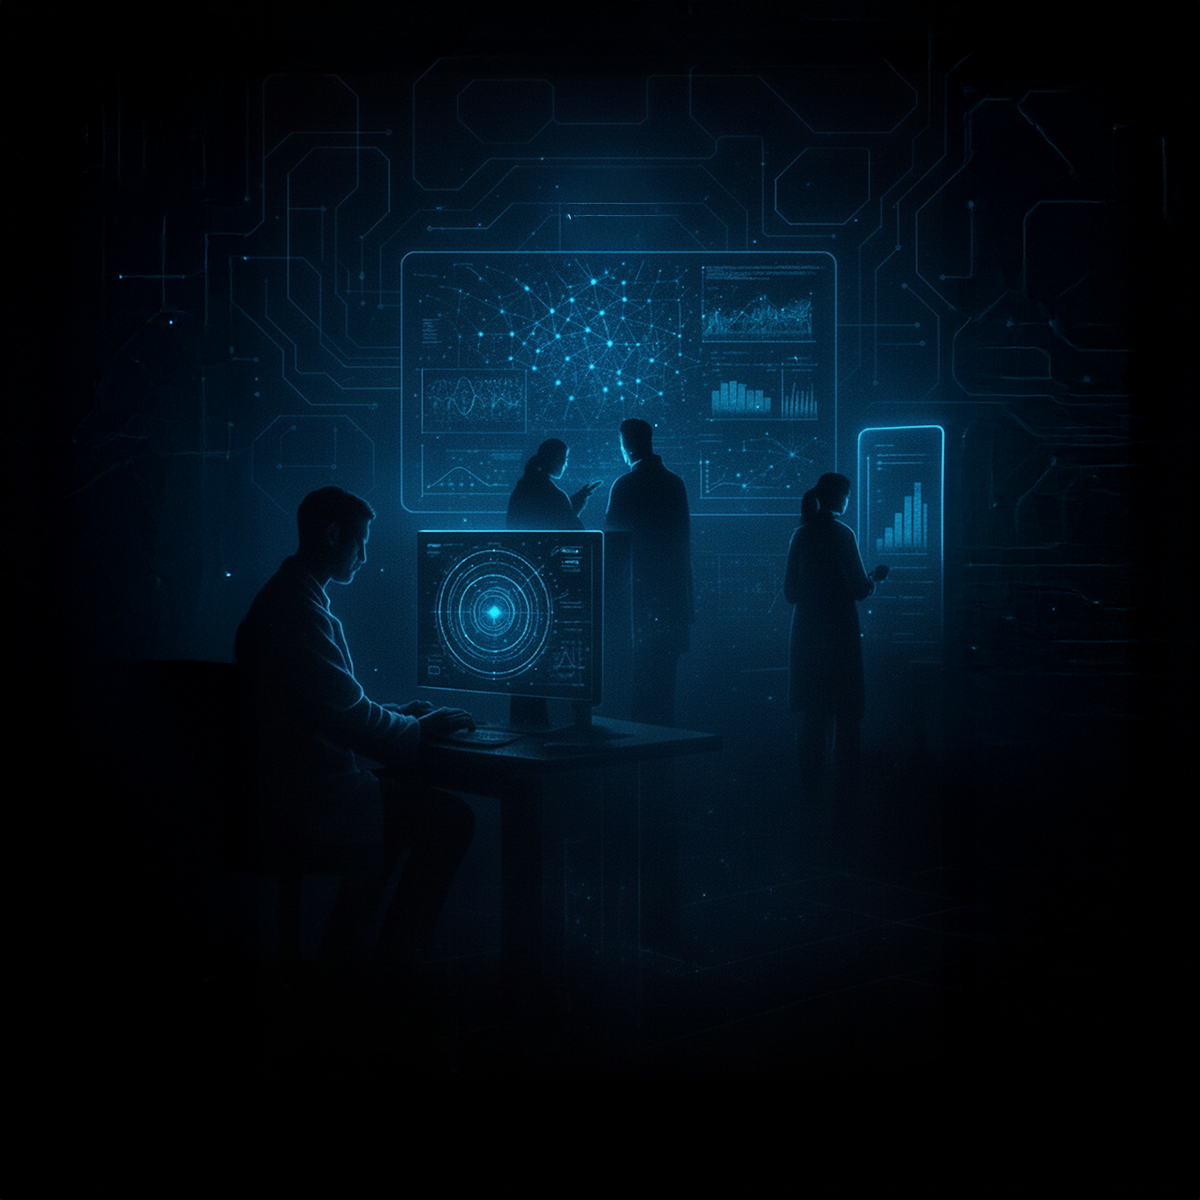
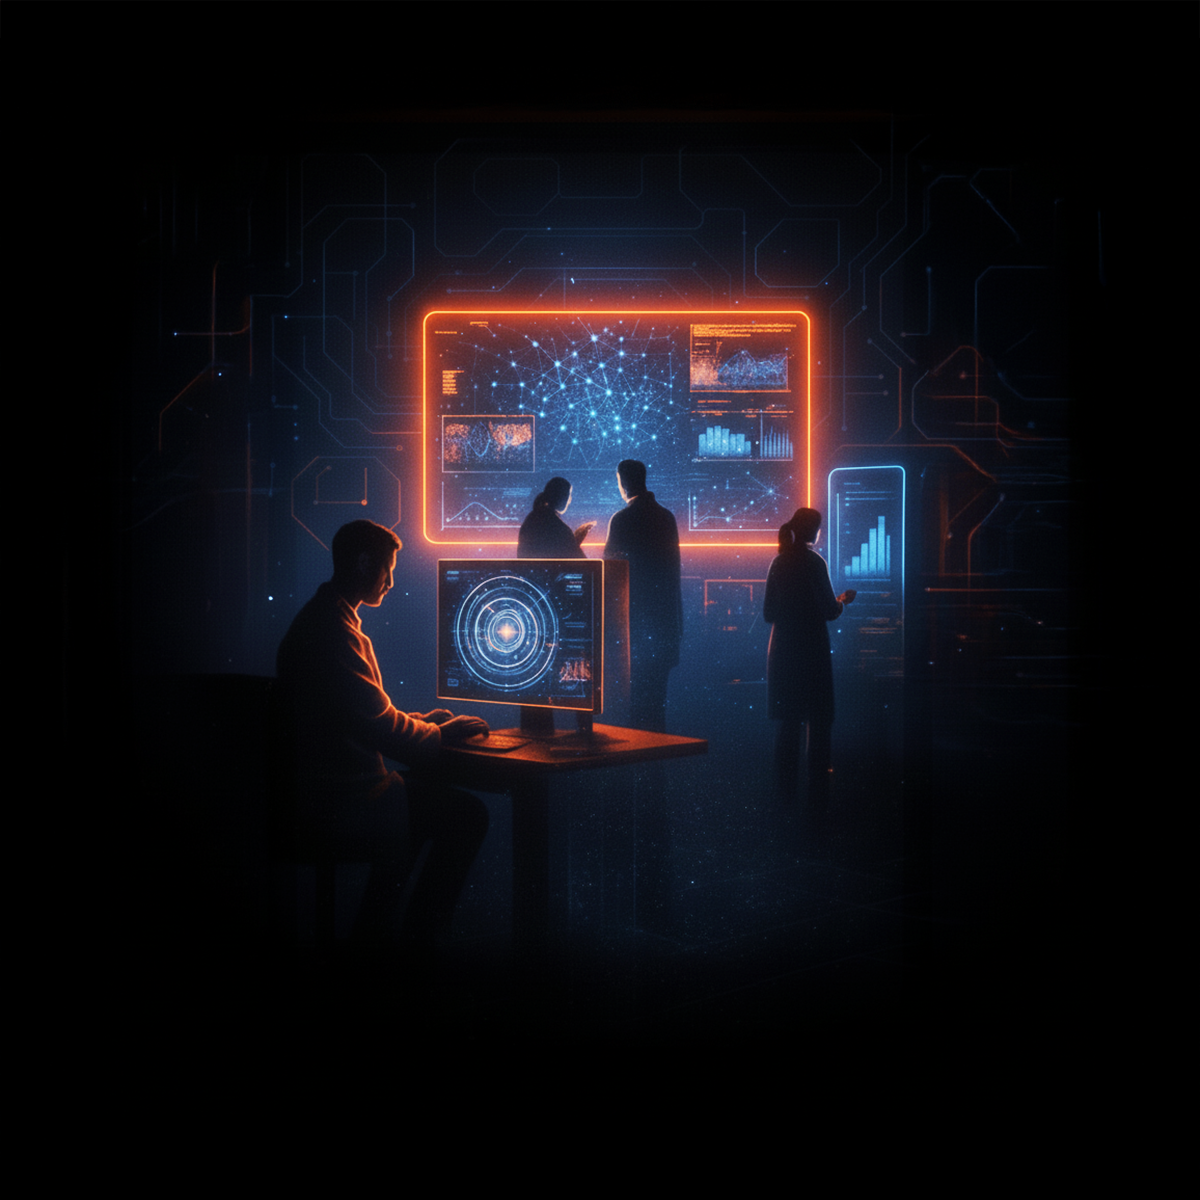
Update Observatory section to vertical stacked layout with new image
- Change Observatory layout from horizontal to vertical/stacked
- Image now appears on top with content centered below
- Update observatory-eval.png with new version
- Center all content including title, subtitle, description, and buttons
- Maintain responsive design for mobile devices
- Apply changes to both homepage and evaluations page

🤖 Generated with [Claude Code](https://claude.com/claude-code)

diff --git a/evaluations.html b/evaluations.html
@@ -98,15 +98,13 @@
     .footer-links a svg{width:16px;height:16px;fill:currentColor}
 
     /* Observatory section */
-    .observatory-card{display:flex;flex-direction:row;gap:60px;align-items:center}
-    .observatory-img{width:400px;height:400px;flex-shrink:0;border-radius:12px;background:#111318;object-fit:cover;display:block}
-    .observatory-body{padding:0;text-align:left;flex:1}
-    .observatory-pills{display:flex;gap:.5rem;justify-content:flex-start;flex-wrap:wrap;margin-top:1rem}
+    .observatory-card{display:flex;flex-direction:column;align-items:center;text-align:center;max-width:800px;margin:0 auto}
+    .observatory-img{width:100%;max-width:600px;aspect-ratio:1/1;border-radius:12px;background:#111318;object-fit:cover;display:block;margin-bottom:32px}
+    .observatory-body{padding:0;text-align:center;width:100%}
+    .observatory-pills{display:flex;gap:.5rem;justify-content:center;flex-wrap:wrap;margin-top:1rem}
     @media (max-width:800px){
-      .observatory-card{flex-direction:column;align-items:stretch}
-      .observatory-img{width:100%;max-width:100%;aspect-ratio:1/1}
-      .observatory-body{text-align:center}
-      .observatory-pills{justify-content:center;flex-direction:column;align-items:center}
+      .observatory-img{max-width:100%}
+      .observatory-pills{flex-direction:column;align-items:center}
       .observatory-pills .btn{width:100%;max-width:240px;justify-content:center;text-align:center}
     }
   </style>

diff --git a/index.html b/index.html
@@ -128,15 +128,13 @@
     }
 
     /* Observatory Section */
-    .observatory-card{display:flex;flex-direction:row;gap:60px;align-items:center}
-    .observatory-img{width:400px;height:400px;flex-shrink:0;border-radius:12px;background:#111318;object-fit:cover;display:block}
-    .observatory-body{padding:0;text-align:left;flex:1}
-    .observatory-pills{display:flex;gap:.5rem;justify-content:flex-start;flex-wrap:wrap;margin-top:1rem}
+    .observatory-card{display:flex;flex-direction:column;align-items:center;text-align:center;max-width:800px;margin:0 auto}
+    .observatory-img{width:100%;max-width:600px;aspect-ratio:1/1;border-radius:12px;background:#111318;object-fit:cover;display:block;margin-bottom:32px}
+    .observatory-body{padding:0;text-align:center;width:100%}
+    .observatory-pills{display:flex;gap:.5rem;justify-content:center;flex-wrap:wrap;margin-top:1rem}
     @media (max-width:800px){
-      .observatory-card{flex-direction:column;align-items:stretch}
-      .observatory-img{width:100%;max-width:100%;aspect-ratio:1/1}
-      .observatory-body{text-align:center}
-      .observatory-pills{justify-content:center;flex-direction:column;align-items:center}
+      .observatory-img{max-width:100%}
+      .observatory-pills{flex-direction:column;align-items:center}
       .observatory-pills .btn{width:100%;max-width:240px;justify-content:center;text-align:center}
     }
 
